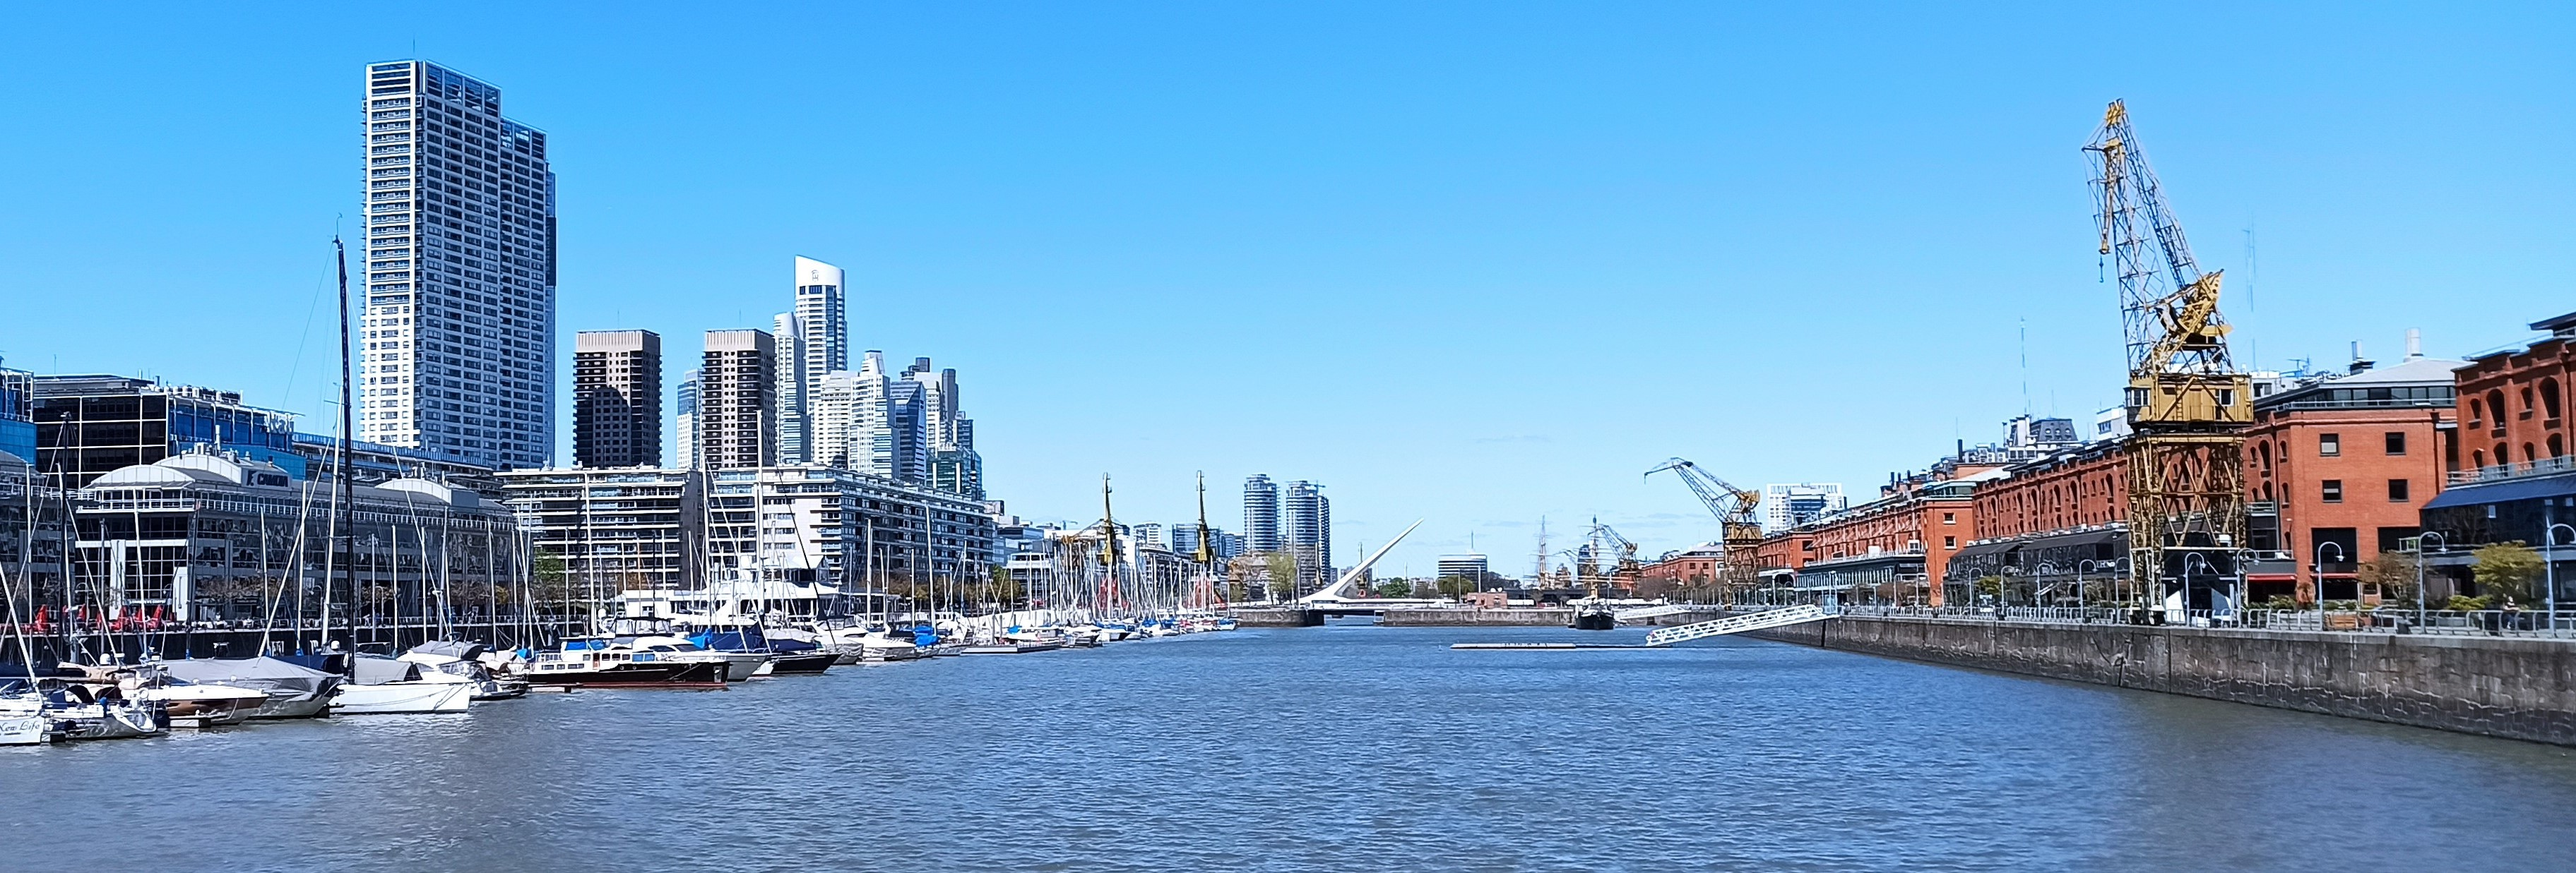
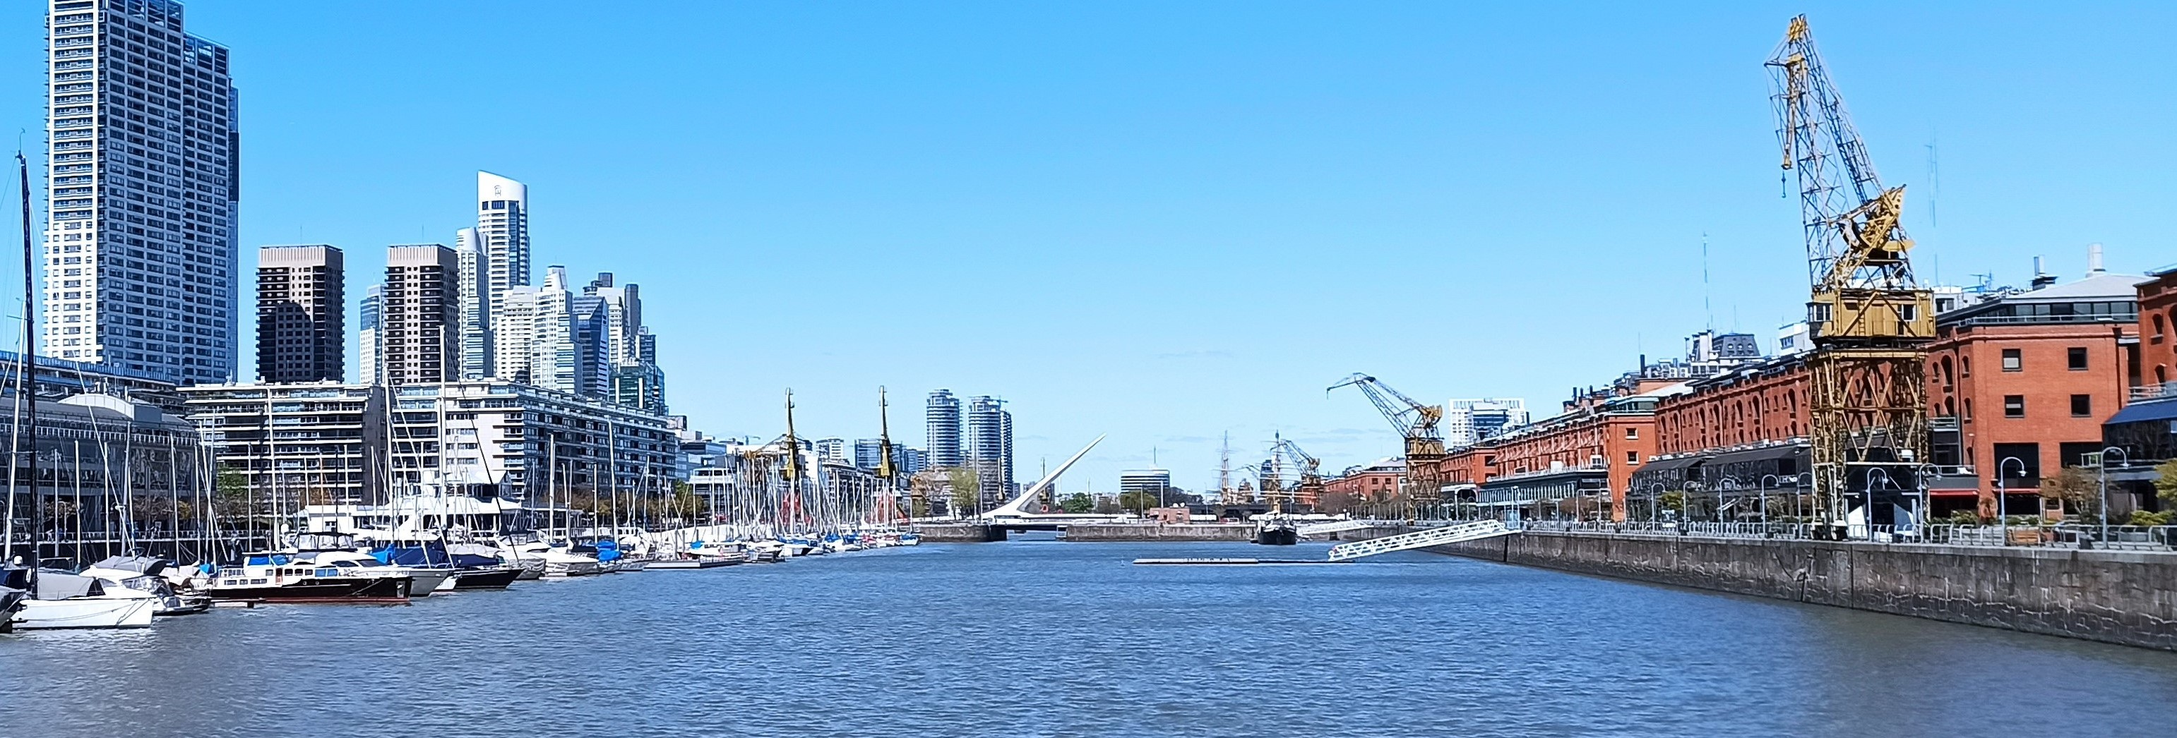
Ajuste foto

diff --git a/css/main.css b/css/main.css
@@ -18,13 +18,12 @@ nav{
     grid-template-columns: 1fr 1fr 1fr 1fr 1fr;
 }
 header{
-    background-image: url('./PtoMad1.jpg');
-    width: auto;
-    height: 280px;
+    background-image: url('./Pto_madero.jpg');
+    min-height: 45vh;
     background-attachment: fixed;
-    background-size: contain;
+    background-size: cover;
     background-repeat: no-repeat;
-    background-position: top;
+    background-position: center;
     grid-column-start: 1;
     grid-column-end: 7;
 }
